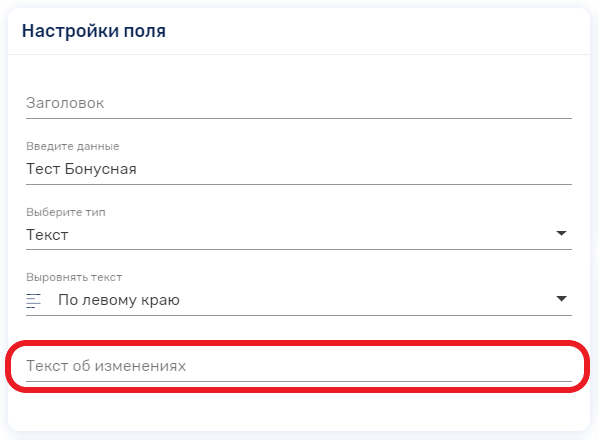
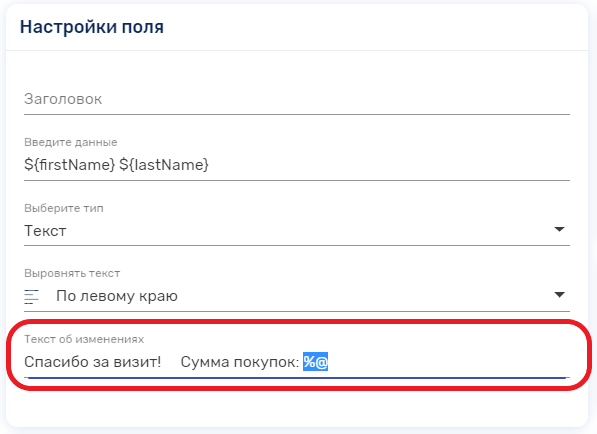
changemessage

diff --git a/source/guides/loona-guide.html.md b/source/guides/loona-guide.html.md
@@ -219,6 +219,13 @@ UTM-метки позволяют создавать отличающиеся с
 
 - Нажмите **отправить**
 
+## Уведомления об изменениях
+
+При наличии динамичной переменной на карте, в случае её изменений можно автоматически отправлять уведомление пользователю. (Например: при наличии на карте суммы покупок, после транзакции может автоматически отправляться уведомление).
+
+Для настройки уведомления пройдите в **Макеты->Редактирование->Дизайн**. Далее, выберите поле на дизайне карты в котором содержится переменная. В настройках поля будет текстовая строка "Текст об изменениях", напишите там текст уведомления при изменении переменной которая находится в том поле. В тексте уведомления **обязательно** должны присутствовать символы **"%@"**, на месте этих символов будет отображаться значение переменной!
+
+<img src="../images/changemessage.png">
 
 ## Гео-уведомпления
 
